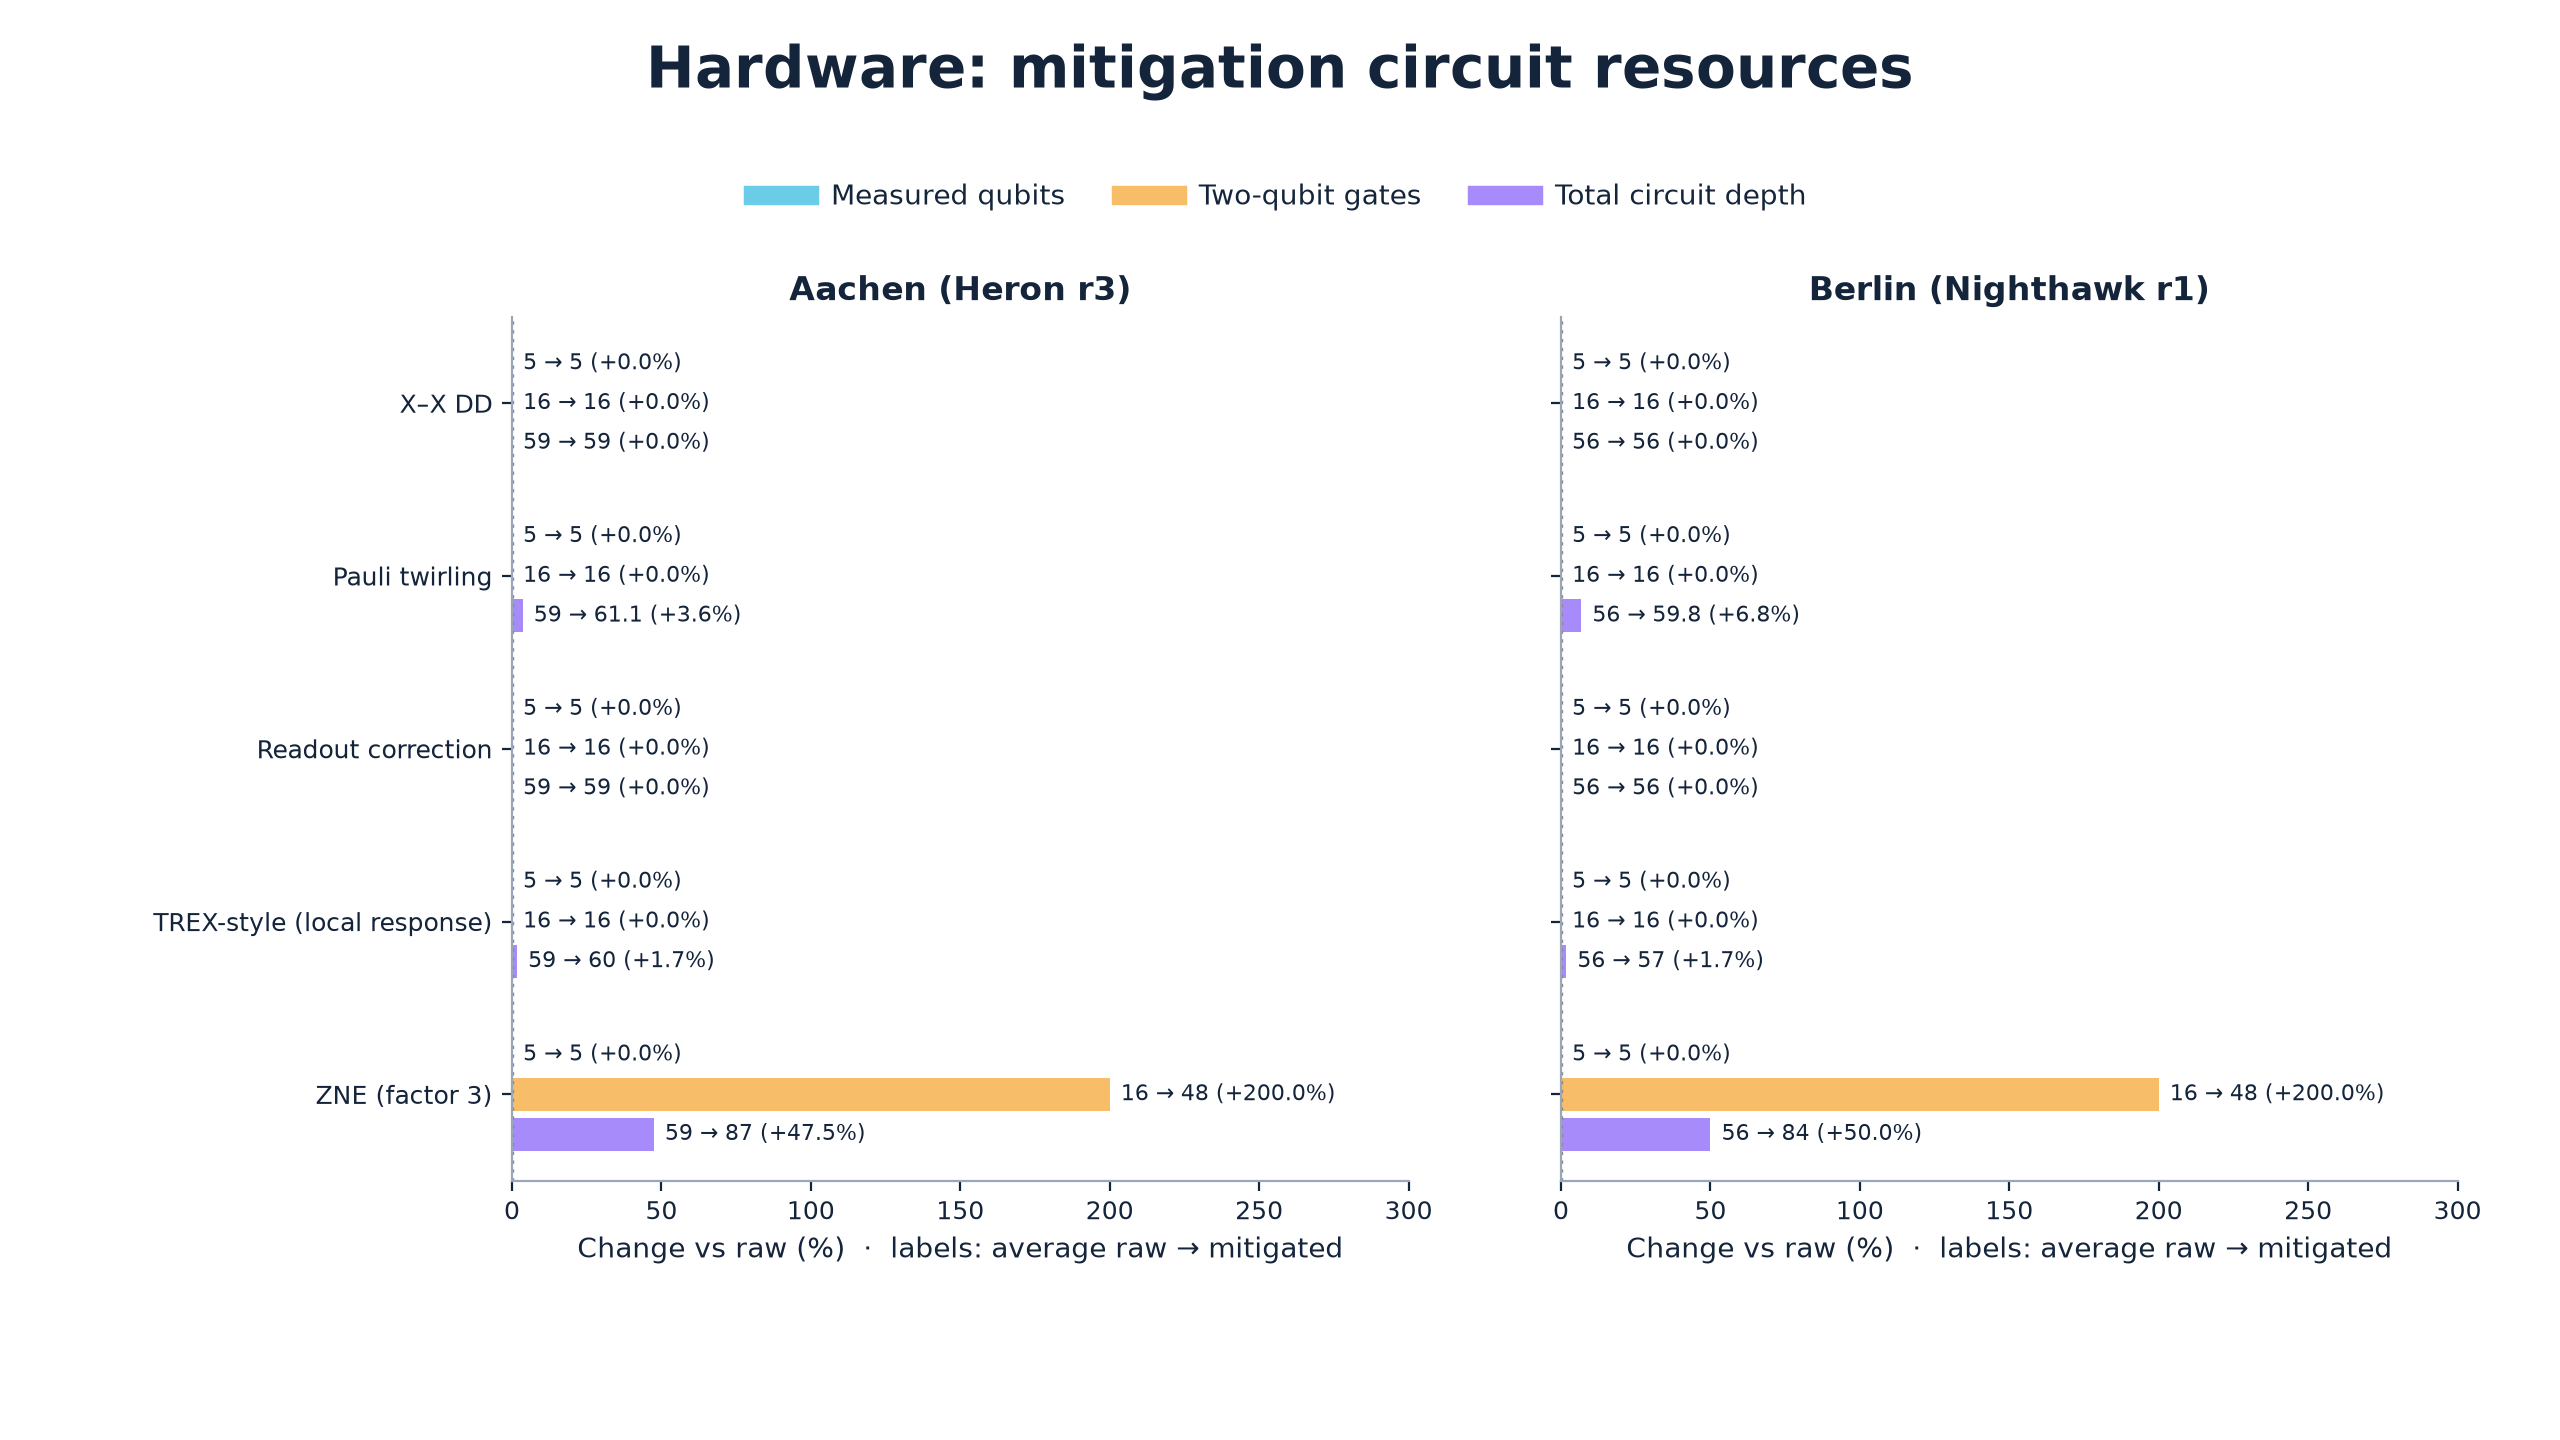
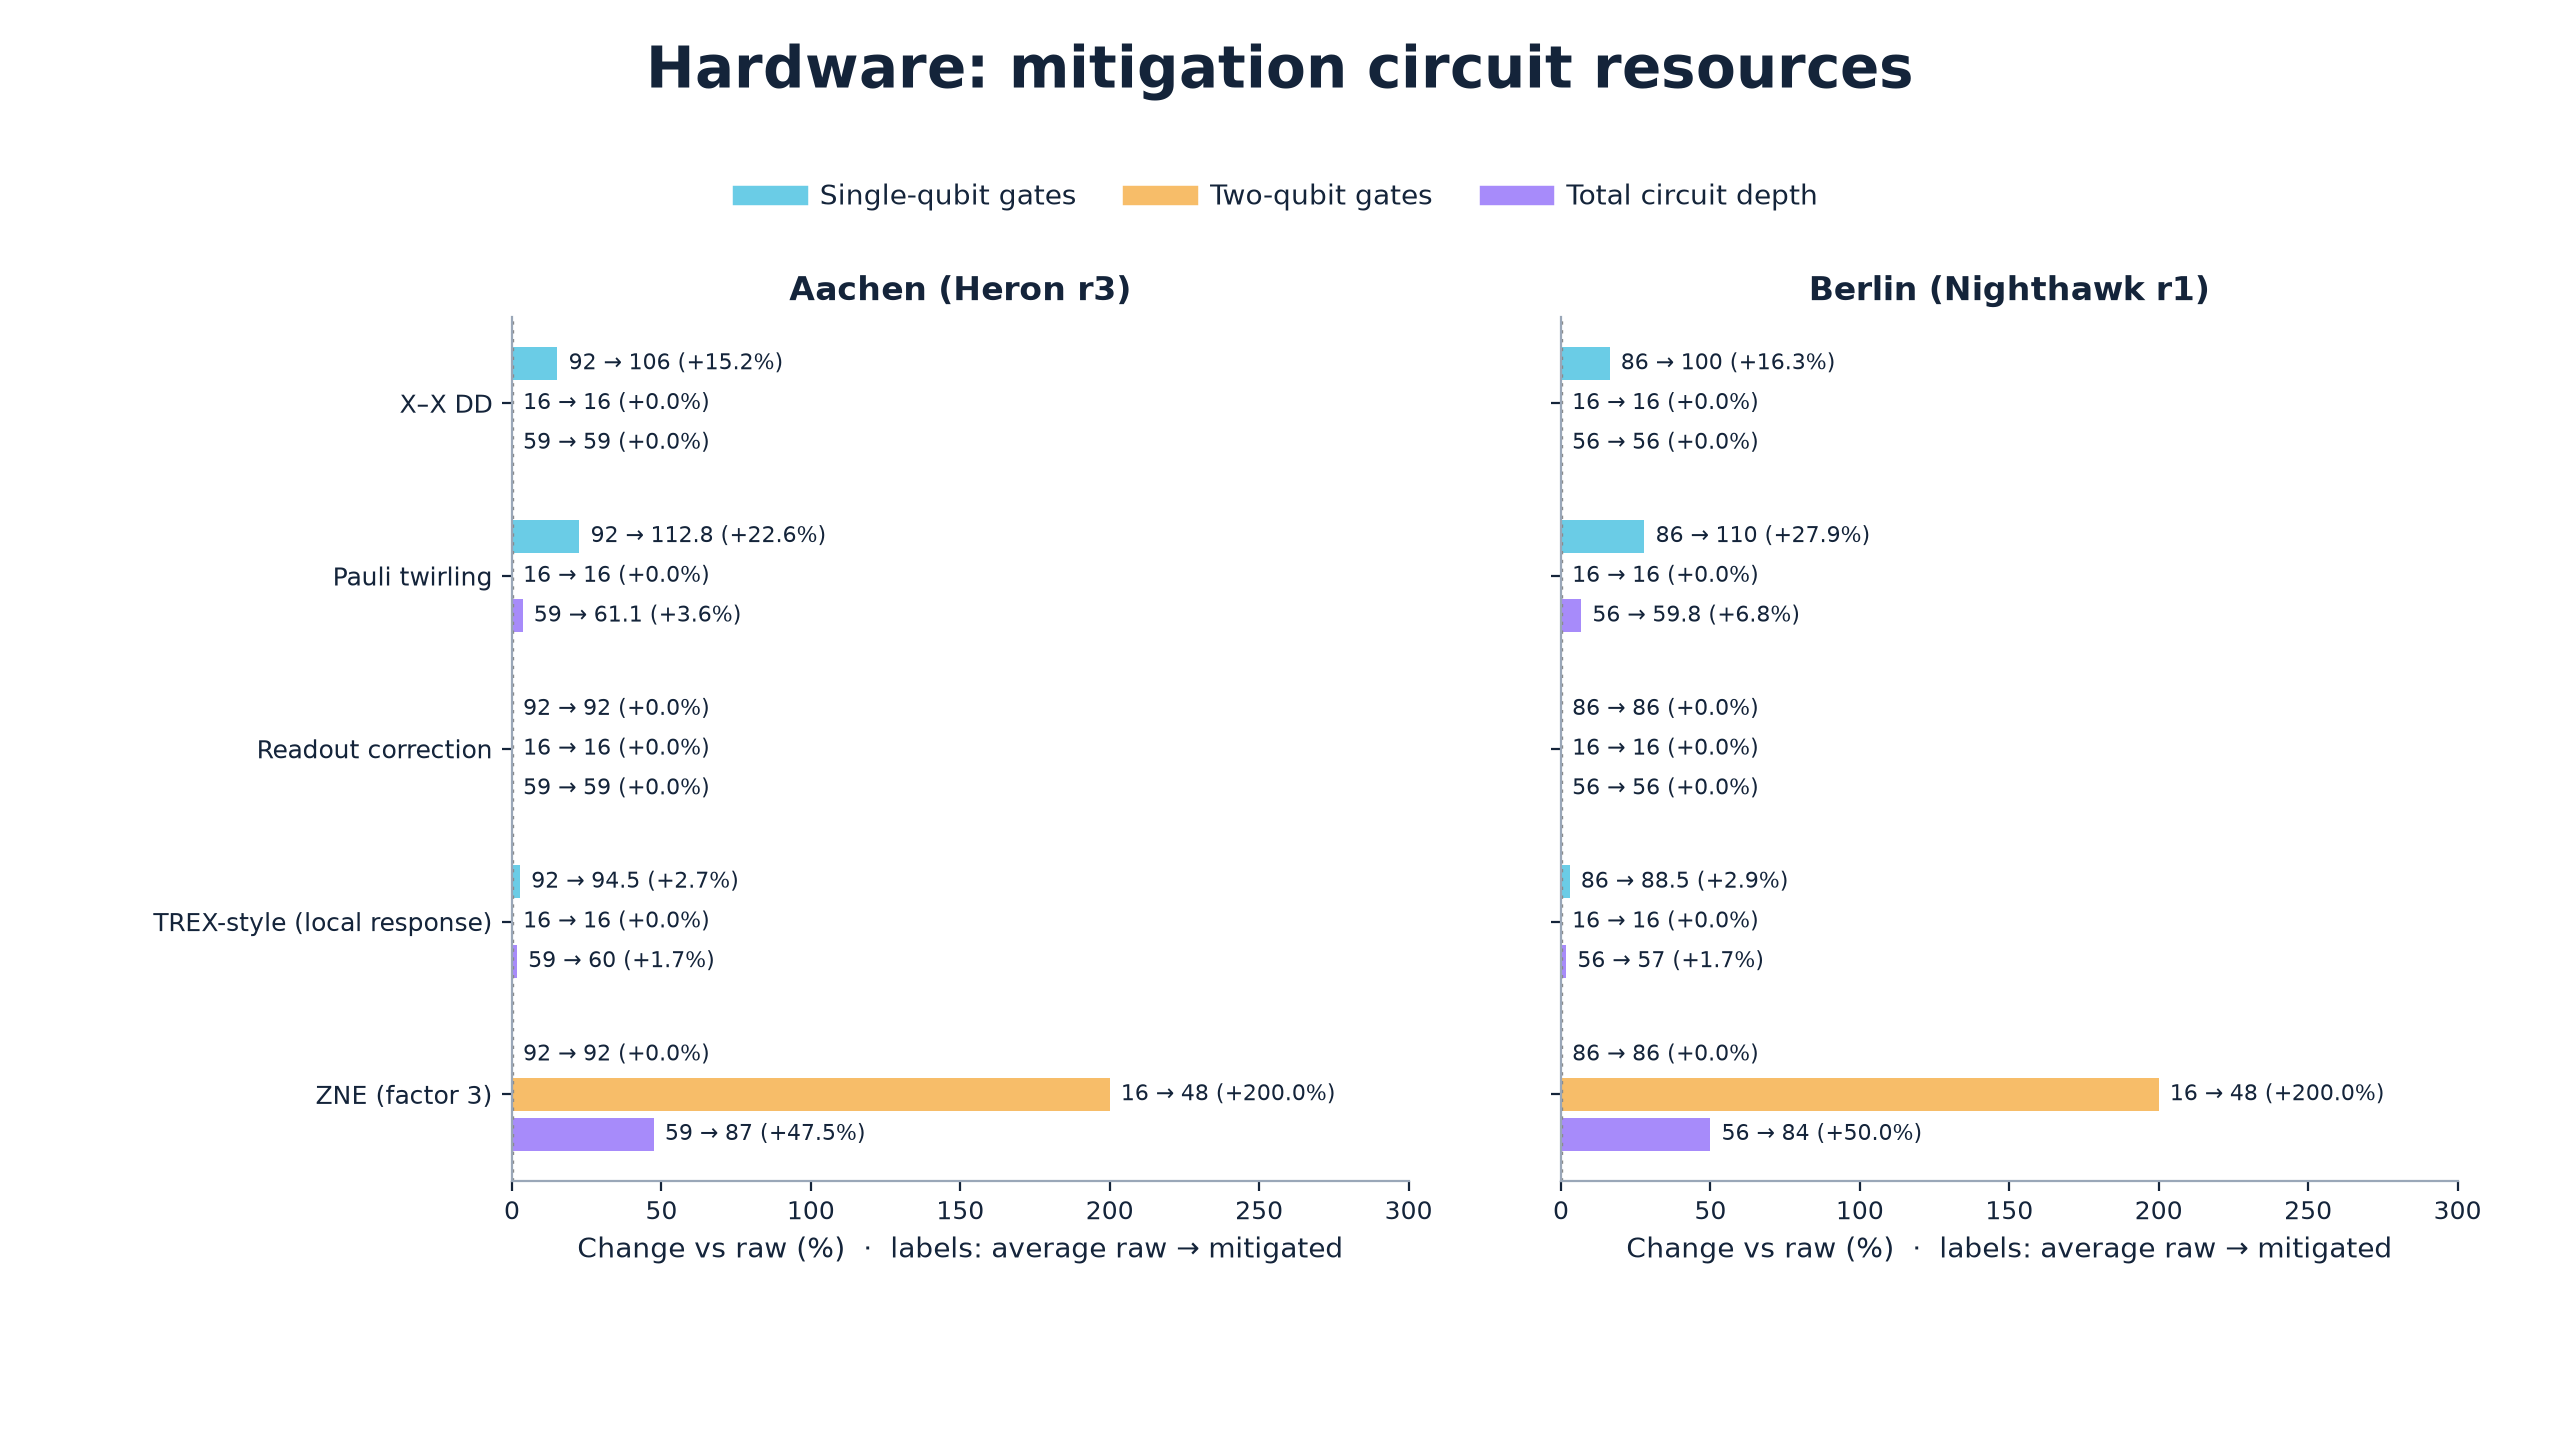
final diagram for depth

diff --git a/scripts/plots/make_plots.py b/scripts/plots/make_plots.py
@@ -1341,6 +1341,20 @@ def plot_presentation_techniques(data, out, formats, dpi):
     save_slide(fig,out,'03_technique_effect',formats,dpi)
 
 
+def single_qubit_gate_count(resources):
+    """Count saved single-qubit gates without treating delays as gates."""
+    operations = resources.get('operations')
+    if operations is None:
+        return np.nan
+    single = {'id', 'x', 'y', 'z', 'h', 's', 'sdg', 't', 'tdg', 'sx', 'sxdg',
+              'rx', 'ry', 'rz', 'p', 'u', 'u1', 'u2', 'u3'}
+    other = {'barrier', 'delay', 'measure', 'reset', 'cx', 'cz', 'cy', 'ch',
+             'ecr', 'swap', 'iswap', 'rxx', 'ryy', 'rzz', 'rzx', 'cp', 'crx', 'cry', 'crz'}
+    if set(operations) - single - other:
+        return np.nan
+    return sum(operations.get(name, 0) for name in single)
+
+
 def mitigation_resource_data(data):
     """Compare target circuits with the matching raw reference in each repeat."""
     rows = []
@@ -1353,13 +1367,12 @@ def mitigation_resource_data(data):
                   (technique == 'zne' and variant == 'factor_3'))
         if record.get('stage') not in ('real', 'noisy') or not target or not resources:
             continue
-        mapping = resources.get('measurement_map') or {}
         rows.append({key: record.get(key) for key in ('stage', 'backend', 'method', 'depth', 'repeat', 'technique')} |
-                    {'measured_qubits': len(set(mapping.values())) if mapping else np.nan,
+                    {'single_qubit_gates': single_qubit_gate_count(resources),
                      'two_qubit_gates': resources.get('two_qubit_gates'), 'total_depth': resources.get('depth')})
     if not rows:
         return pd.DataFrame()
-    metrics = ['measured_qubits', 'two_qubit_gates', 'total_depth']
+    metrics = ['single_qubit_gates', 'two_qubit_gates', 'total_depth']
     keys = ['stage', 'backend', 'method', 'depth', 'repeat']
     table = _selected_champion_rows(data, pd.DataFrame(rows))
     if table.empty:
@@ -1386,7 +1399,7 @@ def plot_mitigation_resources(data, out, formats, dpi):
     if not backends:
         return
     names = [name for name in TECHNIQUES if name in set(selected.technique)]
-    metrics = [('measured_qubits', 'Measured qubits', CYAN), ('two_qubit_gates', 'Two-qubit gates', GOLD),
+    metrics = [('single_qubit_gates', 'Single-qubit gates', CYAN), ('two_qubit_gates', 'Two-qubit gates', GOLD),
                ('total_depth', 'Total circuit depth', TIE)]
     fig, axes = plt.subplots(1, len(backends), figsize=(12.8, 7.2), squeeze=False, sharey=True)
     fig.subplots_adjust(left=.20, right=.96, bottom=.18, top=.78, wspace=.17)

diff --git a/README.md b/README.md
@@ -39,7 +39,7 @@ python scripts/plots/make_plots.py
 
 Outputs go to `figures/backend_comparison/<run>/`; use `--help` to select a run
 or output directory. The presentation includes `03b_mitigation_resources`,
-which compares each technique's measured qubits, two-qubit gates and circuit
+which compares each technique's single-qubit gates, two-qubit gates and circuit
 depth with its matching raw reference. It shows the ZNE factor-3 circuit and
 excludes calibration circuits; scheduled delays count toward circuit depth.
 The plot generator requires version 2 run data; older runs
